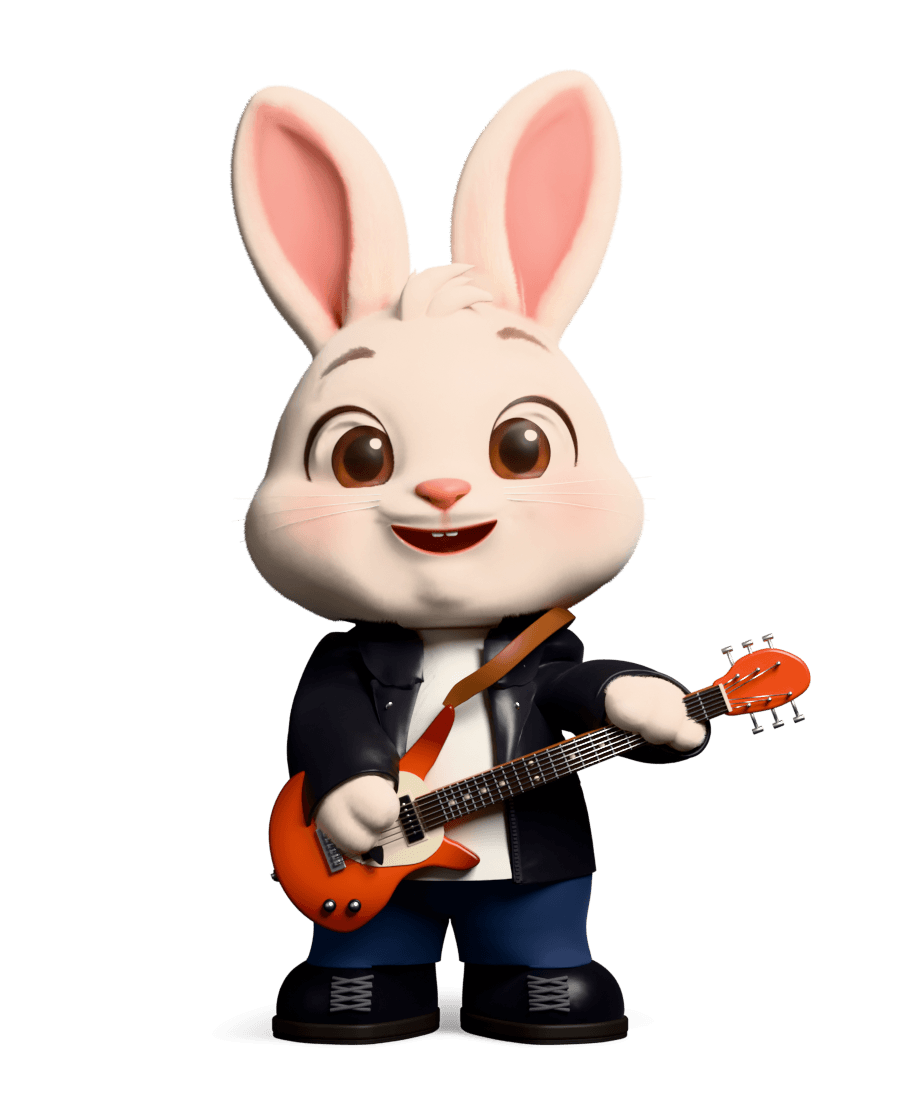
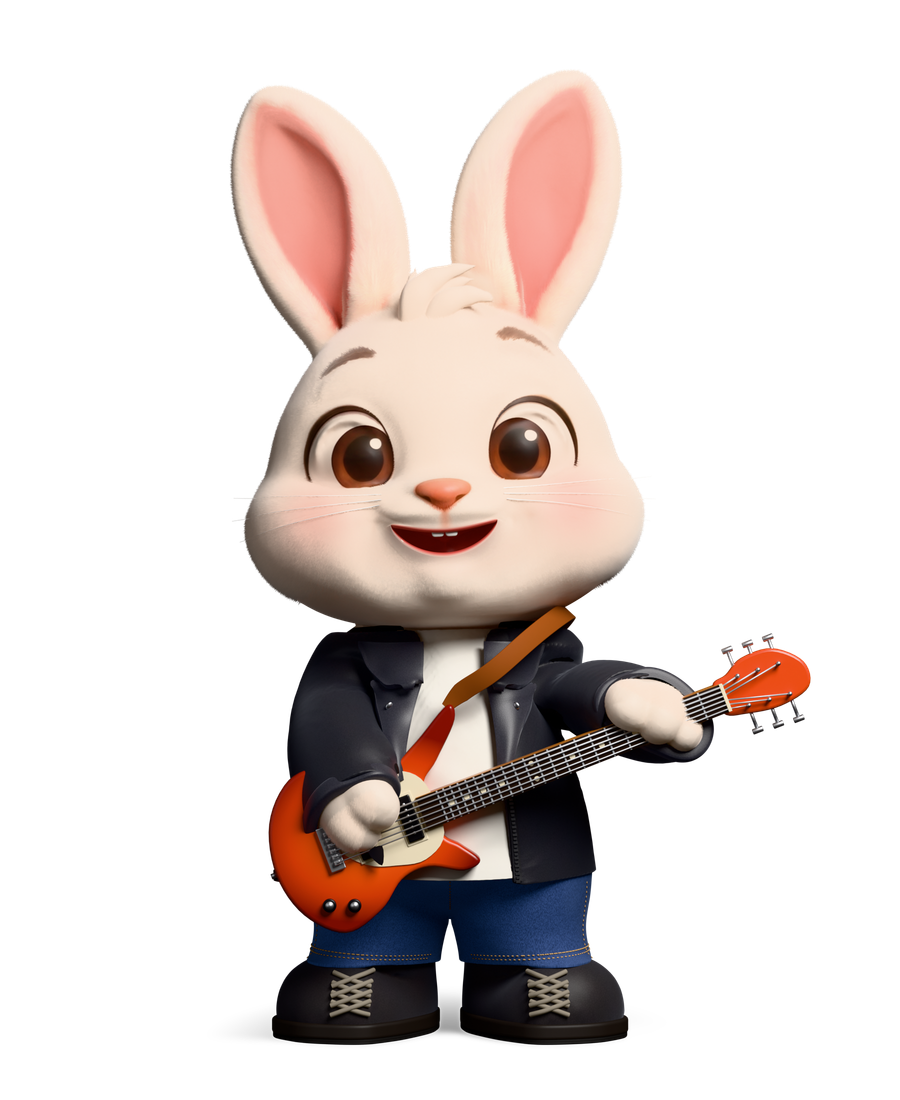
Rabi'yi Giydir: beş avatarın doku hataları düzeltildi
Kıyafetler son pozda temiz yüzeyle yeniden kuruldu; görseller tam renk,
çünkü palet yüzeyde desen ve bant bırakıyordu.

Changed region(s): [[0.3111, 0.5255, 0.7467, 0.9273], [0.7156, 0.5873, 0.84, 0.7109], [0.3111, 0.5255, 0.3422, 0.5564]]

diff --git a/docs/kurallar/maskot-ve-ikon.md b/docs/kurallar/maskot-ve-ikon.md
@@ -121,7 +121,10 @@ Rabi proje kurallarının bir parçası — dizin ve genel kurallar: [AGENTS.md]
 - Gözlük camı yalnız kenarda yansır: beyaz dünyayı yansıtan cam gözlerin üstünde
   süt gibi bir tabaka bırakıyordu. Gözün koyu yerinde gömülü gölge sönümlenir:
   oran orada gürültüye boğulup camın altında hayalet leke bırakıyordu.
-- Paletli PNG (maskot pozlarıyla aynı). Yeni eşya = Blender'da kemiğe bağlı nesne +
+- Paletli PNG (maskot pozlarıyla aynı). **İstisna:** Doktor, Hukukçu, Şef, Gitarist, Ninja tam renk
+  (görsel başına ≈650 KB; kullanıcı doku hatalarını geri çevirdi, 2026-11-05): palet titreşimle bordo
+  şeritte labirent deseni, titreşimsiz tencerede bant bırakıyordu. Sharp'ta `effort` verme, paleti açar.
+  Yeni eşya = Blender'da kemiğe bağlı nesne +
   aynı kamerayla katman + `ESYALAR`a satır; aynı yuvaya ikinci eşya ötekini çıkarır.
 - **Eşyalar ve yuvalar** (2026-10-31): kafa (kep, bere, taç, kulaklık), yüz (güneş
   gözlüğü), boyun (papyon, atkı, altın kolye, Allah yazılı kolye); kulak ve ayak
@@ -182,7 +185,11 @@ Rabi proje kurallarının bir parçası — dizin ve genel kurallar: [AGENTS.md]
     (toplam 0.39) ve kalın. Nesne önce konur, pati ona IK ile uzanır; yakın hedefte kol katlanıp yen
     patiyi deliyor. Dirsek 90° bükülmez, burgu tek eklemde verilmez: ikisi de yen ağzını yırtıyor.
   - **Kumaş altındaki gövde** kol kalkınca kumaşı delip krem leke yapıyor; `tuy_yog` = 0 çözmez,
-    gövde şekil anahtarıyla içeri alınır (`dr_ic`, `ninja_ic`; katman betiği açar).
+    gövde şekil anahtarıyla içeri alınır ya da maskeyle gizlenir.
+  - **Kumaş son pozda kurulur** (kullanıcı ilk hâli doku hatası diye geri çevirdi, 2026-11-05):
+    gövdeden kesilen örgü bükülünce çamur gibi buruşuyor, kenarı yırtılıyordu; temiz yüzey ve
+    ızgara bant kullanılır, ince doku bump değil renk ve pürüzde. Render ≥256 örnek, albedo +
+    normal geçişli OIDN. Teslimden önce 2 kat büyütülmüş kırpımla bakılır: tam boyda görünmüyor.
   - **Beyaz ve siyah kumaş:** kıvrım yalnız geometriyle okunmuyor. Siyah cüppede kıvrım yüksekliği
     renge de işlenir (`hukukcu_kur.py`, `kat_f`), pürüz 0.72 (0.5 plastik gibi parlıyordu). Beyaz
     ceket sheen 0.12 (zeminde kaybolmasın diye biye ve fular kontrast verir).
